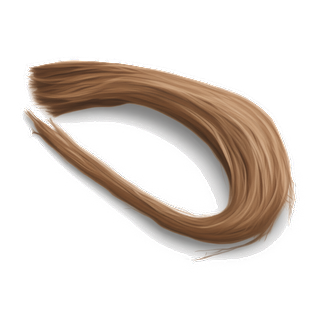
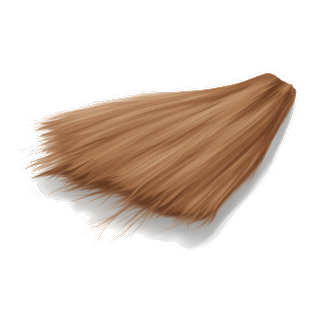
fix(art): 囲まれた紙を座標で抜けるようにし、サルの死体を直す
card_art.py に --hole X Y を足す。挙げた座標を含む穴だけを芯から外す。

**サルの死体は、尻尾と腕が作る輪の内側が不透明な白のまま出荷されていた。** ここを
--keep-holes でまとめて止めると、輪と一緒に背の生成りの斑と鼻面まで抜ける（実測）。物の側に
明るい場所があるなら、抜く穴を名指しするしかない。絵はseedで固定なので座標は一度調べれば済む。
座標が埋めた穴に載っていなければ止める——黙って何もしないと、seedを取り違えたまま白い塊を
載せて出荷される。

繊維と糸は輪をやめる。繊維・糸・紐・縄が4枚とも丸い輪だと、札が並んだときに見分けが付かない。
糸は畳んだ綛（かせ）にすると、撚りが見えるぶんまっすぐな繊維の束とも分かれる。繊維は片端で
束ねて反対側が開いた形にする（一直線の束は札の上で木の板に見えた）。

diff --git a/tools/comfyui/card_art.py b/tools/comfyui/card_art.py
@@ -141,7 +141,8 @@ def bounds(mask: np.ndarray) -> tuple[int, int, int, int]:
 
 def fit_object(image: Image.Image, size: int, tolerance: float, edge: float, shadow: float,
                reach: float, reserve: float = 0, neutral: float = 0,
-               keep_holes: bool = False) -> np.ndarray:
+               keep_holes: bool = False,
+               holes: list[tuple[int, int]] | None = None) -> np.ndarray:
     """物だけを切り出し、正方形のキャンバスの中央へ、長辺がキャンバスに収まる大きさで置く。
 
     中央に合わせるのも、大きさを決めるのも、影ではなく物そのもの。影は片側にしか出ないので、影ごと
@@ -155,16 +156,16 @@ def fit_object(image: Image.Image, size: int, tolerance: float, edge: float, sha
     reserveは、後から足すもの（drop_shadow）のために四辺へ余分に空けておく幅。
     neutralは影を芯から外すための彩度のしきい値（separate参照）。**濃い影を持つ絵ではこれが要る**
     ——影が芯に入ると、上の「影ではなく物そのもの」が成り立たなくなる。
-    keep_holesは囲まれた紙を埋めないための指定（separate参照）。
+    keep_holes / holes は囲まれた紙を埋めないための指定（separate参照）。
     """
     rgb = np.asarray(image, dtype=np.float64)
     margin = max(edge, reach, OBJECT_SLACK, reserve)
-    core, _ = separate(rgb, tolerance, 0, 0, 1, neutral, keep_holes)
+    core, _ = separate(rgb, tolerance, 0, 0, 1, neutral, keep_holes, holes)
     left, top, right, bottom = bounds(core)
     scale = (size - margin * 2) / max(right - left, bottom - top)
 
     alpha, premultiplied = separate(rgb, tolerance, edge / scale, shadow, reach / scale, neutral,
-                                    keep_holes)
+                                    keep_holes, holes)
     pad = int(np.ceil(margin / scale))
     box = (max(left - pad, 0), max(top - pad, 0),
            min(right + pad, image.width), min(bottom + pad, image.height))
@@ -226,8 +227,28 @@ def alpha_from_luma(rgb: np.ndarray, white: float, opaque: float) -> np.ndarray:
     return np.clip((white - luma) / max(white - opaque, 1e-6), 0, 1)
 
 
+def punch(core: np.ndarray, dark: np.ndarray, holes: list[tuple[int, int]]) -> np.ndarray:
+    """埋めた穴のうち、挙げた座標を含むものだけを芯から外す（separate参照）。
+
+    座標が埋めた穴に載っていなければ止める。**黙って何もしないと、白い塊を載せたまま出荷される**
+    ——絵を作り直したときにseedを取り違えても、出来上がりを見るまで気付けない。
+    """
+    if not holes:
+        return core
+    regions, _ = label(core & ~dark)
+    for x, y in holes:
+        if not 0 <= y < regions.shape[0] or not 0 <= x < regions.shape[1]:
+            raise SystemExit(f"座標({x}, {y})が絵の外にある")
+        region = regions[y, x]
+        if region == 0:
+            raise SystemExit(f"座標({x}, {y})は埋められた穴の上に無い。原寸の絵で取り直してください")
+        core = core & (regions != region)
+    return core
+
+
 def separate(rgb: np.ndarray, tolerance: float, edge: float, shadow: float, reach: float,
-             neutral: float = 0, keep_holes: bool = False) -> tuple[np.ndarray, np.ndarray]:
+             neutral: float = 0, keep_holes: bool = False,
+             holes: list[tuple[int, int]] | None = None) -> tuple[np.ndarray, np.ndarray]:
     """絵を紙・物・影に分け、不透明度と、乗算済みの前景色を返す。
 
     **返すのは観測された色ではなく、紙を取り除いた前景の色。** 輪郭の画素は生成時の紙と物が混ざった
@@ -253,9 +274,17 @@ def separate(rgb: np.ndarray, tolerance: float, edge: float, shadow: float, reac
     影響を受けるのは輪郭の外に続く影だけ。**無彩色の物（石）には使えない**ので既定は0（外さない）。
 
     **輪が閉じた物では穴埋めが害になる。** 輪に巻いた紐や、葉が重なって隙間を囲む草では、囲まれて
-    いるのは物の内側ではなく紙なので、埋めると不透明な白い塊としてカードに乗る。keep_holesを渡すと
-    埋めない。**物の形を見て決めることなので自動では判定できない**——穴の画素は定義上どれも
-    「紙よりtoleranceだけ暗くはない」ので、明度でも色でも紙と区別が付かない。
+    いるのは物の内側ではなく紙なので、埋めると不透明な白い塊としてカードに乗る。
+    **物の形を見て決めることなので自動では判定できない**——穴の画素は定義上どれも「紙よりtoleranceだけ
+    暗くはない」ので、明度でも色でも紙と区別が付かない。指定の仕方が2つあり、**物の側に明るい場所が
+    あるかどうか**で選ぶ。
+
+    - keep_holes: 埋めない。撚った紐や葉のように、**物そのものに明るい場所が無い**もの用。
+      隙間が数えきれないほどある草はこれしかない。
+    - holes: 挙げた座標（原寸の絵の x, y）を含む穴だけを抜く。**明るい場所を持つ物**用——サルの
+      死体でkeep_holesを使うと、尻尾の輪と一緒に背の生成りの斑と鼻面まで抜けた。
+      座標が穴に載っていなければ止まる。絵はseedで固定なので、一度調べれば毎回は要らないが、
+      seedを変えたら取り直す。
 
     **必ず原寸の絵に対して呼ぶこと。** 物の周りだけを切り出した絵に渡すと、紙の明るさを測る外周に
     物や影が入って狂う。
@@ -267,7 +296,7 @@ def separate(rgb: np.ndarray, tolerance: float, edge: float, shadow: float, reac
     dark = luma <= paper - tolerance
     if neutral > 0:
         dark &= rgb.max(axis=2) - rgb.min(axis=2) >= neutral
-    core = dark if keep_holes else binary_fill_holes(dark)
+    core = dark if keep_holes else punch(binary_fill_holes(dark), dark, holes or [])
     regions, count = label(core)
     if count:
         # 小さな塊は落とす。文字の消し残りや、2つ目に描かれてしまった物を持ち込まないため。
@@ -370,6 +399,9 @@ def main() -> None:
     parser.add_argument("--reach", type=float, default=24, help="background: 影が届く範囲（物からのpx）")
     parser.add_argument("--keep-holes", action="store_true",
                         help="background: 物に囲まれた紙を埋めない。輪に巻いた紐や、葉が隙間を囲む草に使う")
+    parser.add_argument("--hole", type=int, nargs=2, action="append", metavar=("X", "Y"),
+                        help="background: この座標（原寸の絵）を含む穴だけを抜く。"
+                        "明るい場所を持つ物（動物）向け。何度でも指定できる")
     parser.add_argument("--neutral-shadow", type=float, default=0,
                         help="background: 彩度がこれ未満の暗い画素を影と見なして芯から外す。"
                         "無彩色の物には使えない")
@@ -400,6 +432,7 @@ def main() -> None:
     parser.add_argument("--oilify", type=int, nargs=2, metavar=("RADIUS", "LEVELS"),
                         help="油絵風に潰す（postprocess.oilify）。写実的すぎる絵を他のカードへ寄せる")
     args = parser.parse_args()
+    holes = [tuple(hole) for hole in args.hole] if args.hole else None
 
     image = Image.open(args.source).convert("RGB")
     if args.crop:
@@ -421,7 +454,7 @@ def main() -> None:
         mask = paper_mask(CARD_WIDTH, CARD_HEIGHT, args.feather)
         if args.mode == "background":
             alpha, premultiplied = separate(rgb, args.tolerance, args.edge, args.shadow,
-                                            args.reach, keep_holes=args.keep_holes)
+                                            args.reach, keep_holes=args.keep_holes, holes=holes)
             rgb = np.divide(premultiplied, alpha[:, :, None],
                             out=np.zeros_like(rgb), where=alpha[:, :, None] > 0)
         elif args.mode == "luma":
@@ -433,7 +466,7 @@ def main() -> None:
         # ぼかした影は輪郭から offset + blur*2 ほど広がる。そのぶんを四辺へ空けておく。
         reserve = args.drop_offset + args.drop_blur * 2 if args.drop_shadow else 0
         rgba = fit_object(image, int(args.size), args.tolerance, args.edge, args.shadow,
-                          args.reach, reserve, args.neutral_shadow, args.keep_holes)
+                          args.reach, reserve, args.neutral_shadow, args.keep_holes, holes)
         if args.drop_shadow:
             rgba = drop_shadow(rgba, args.drop_shadow, args.drop_offset, args.drop_blur)
 
@@ -462,6 +495,7 @@ def main() -> None:
         **({"dropShadow": args.drop_shadow, "dropOffset": args.drop_offset,
             "dropBlur": args.drop_blur} if args.drop_shadow else {}),
         **({"keepHoles": True} if args.keep_holes else {}),
+        **({"holes": args.hole} if args.hole else {}),
         **({"neutralShadow": args.neutral_shadow} if args.neutral_shadow else {}),
         **({"saturation": args.saturation} if args.saturation != 1.0 else {}),
         **({"gamma": args.gamma} if args.gamma != 1.0 else {}),

diff --git a/tools/comfyui/build.py b/tools/comfyui/build.py
@@ -287,6 +287,7 @@ def main() -> None:
                     *(["--shadow", str(card["shadow"])] if "shadow" in card else []),
                     *(["--reach", str(card["reach"])] if "reach" in card else []),
                     *(["--keep-holes"] if card.get("keepHoles") else []),
+                    *[str(v) for hole in card.get("holes", []) for v in ("--hole", *map(str, hole))],
                     *(["--neutral-shadow", str(card["neutralShadow"])] if "neutralShadow" in card else []),
                     *(["--white", str(card["white"])] if "white" in card else []),
                     *(["--opaque", str(card["opaque"])] if "opaque" in card else []),
